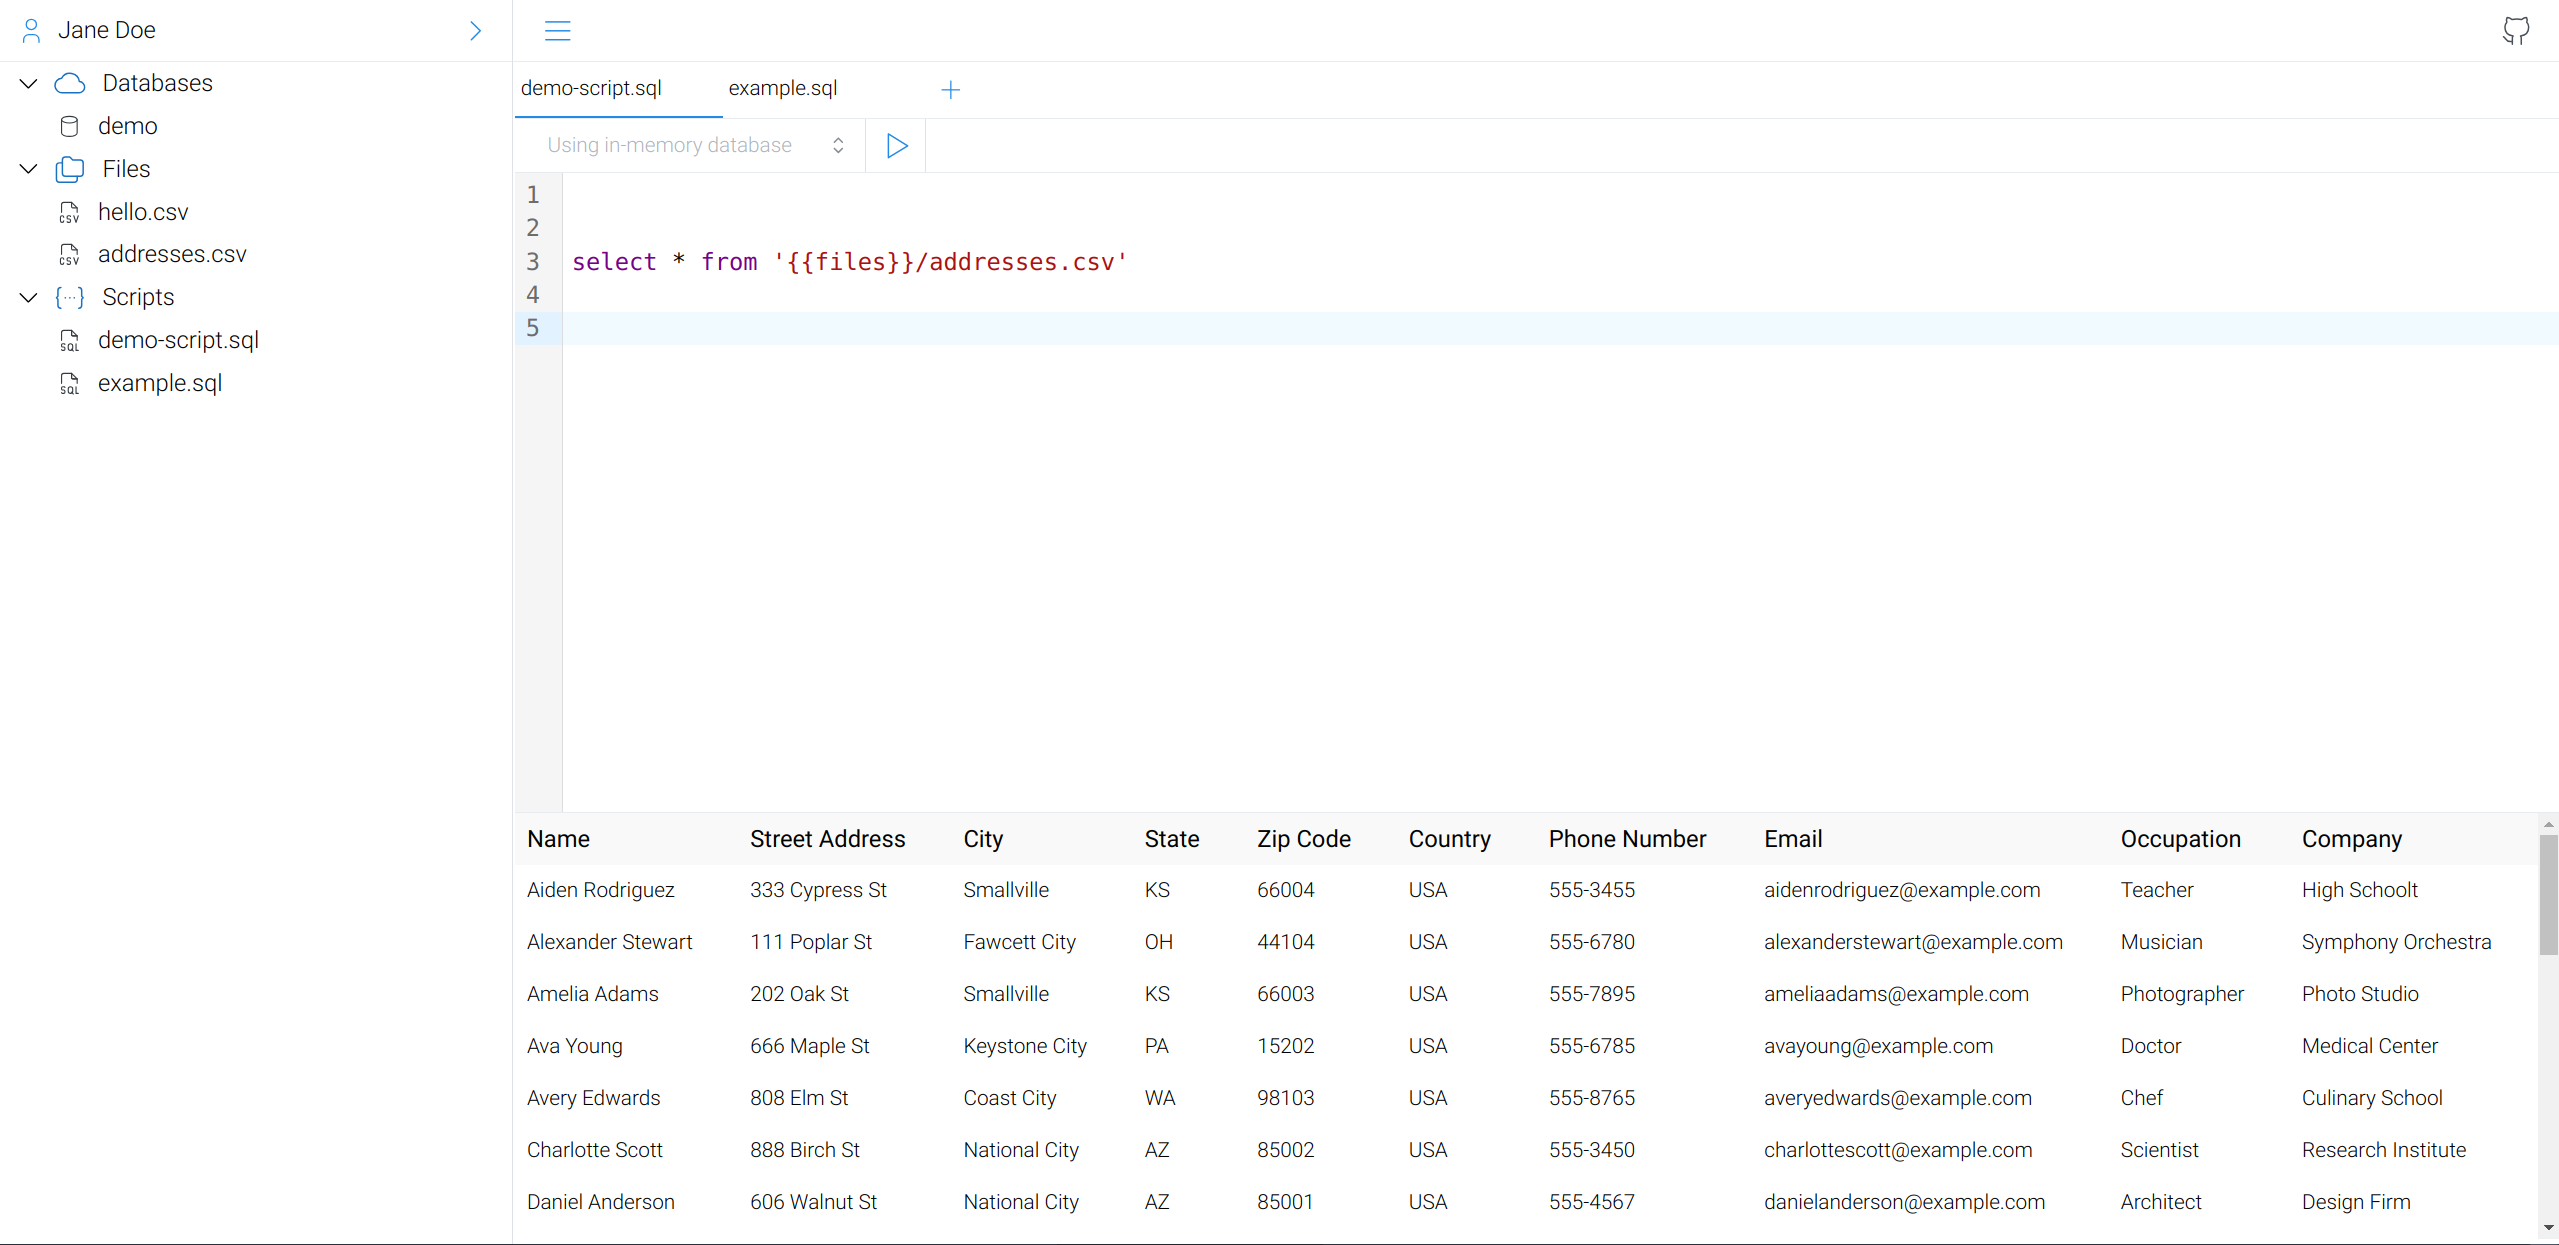
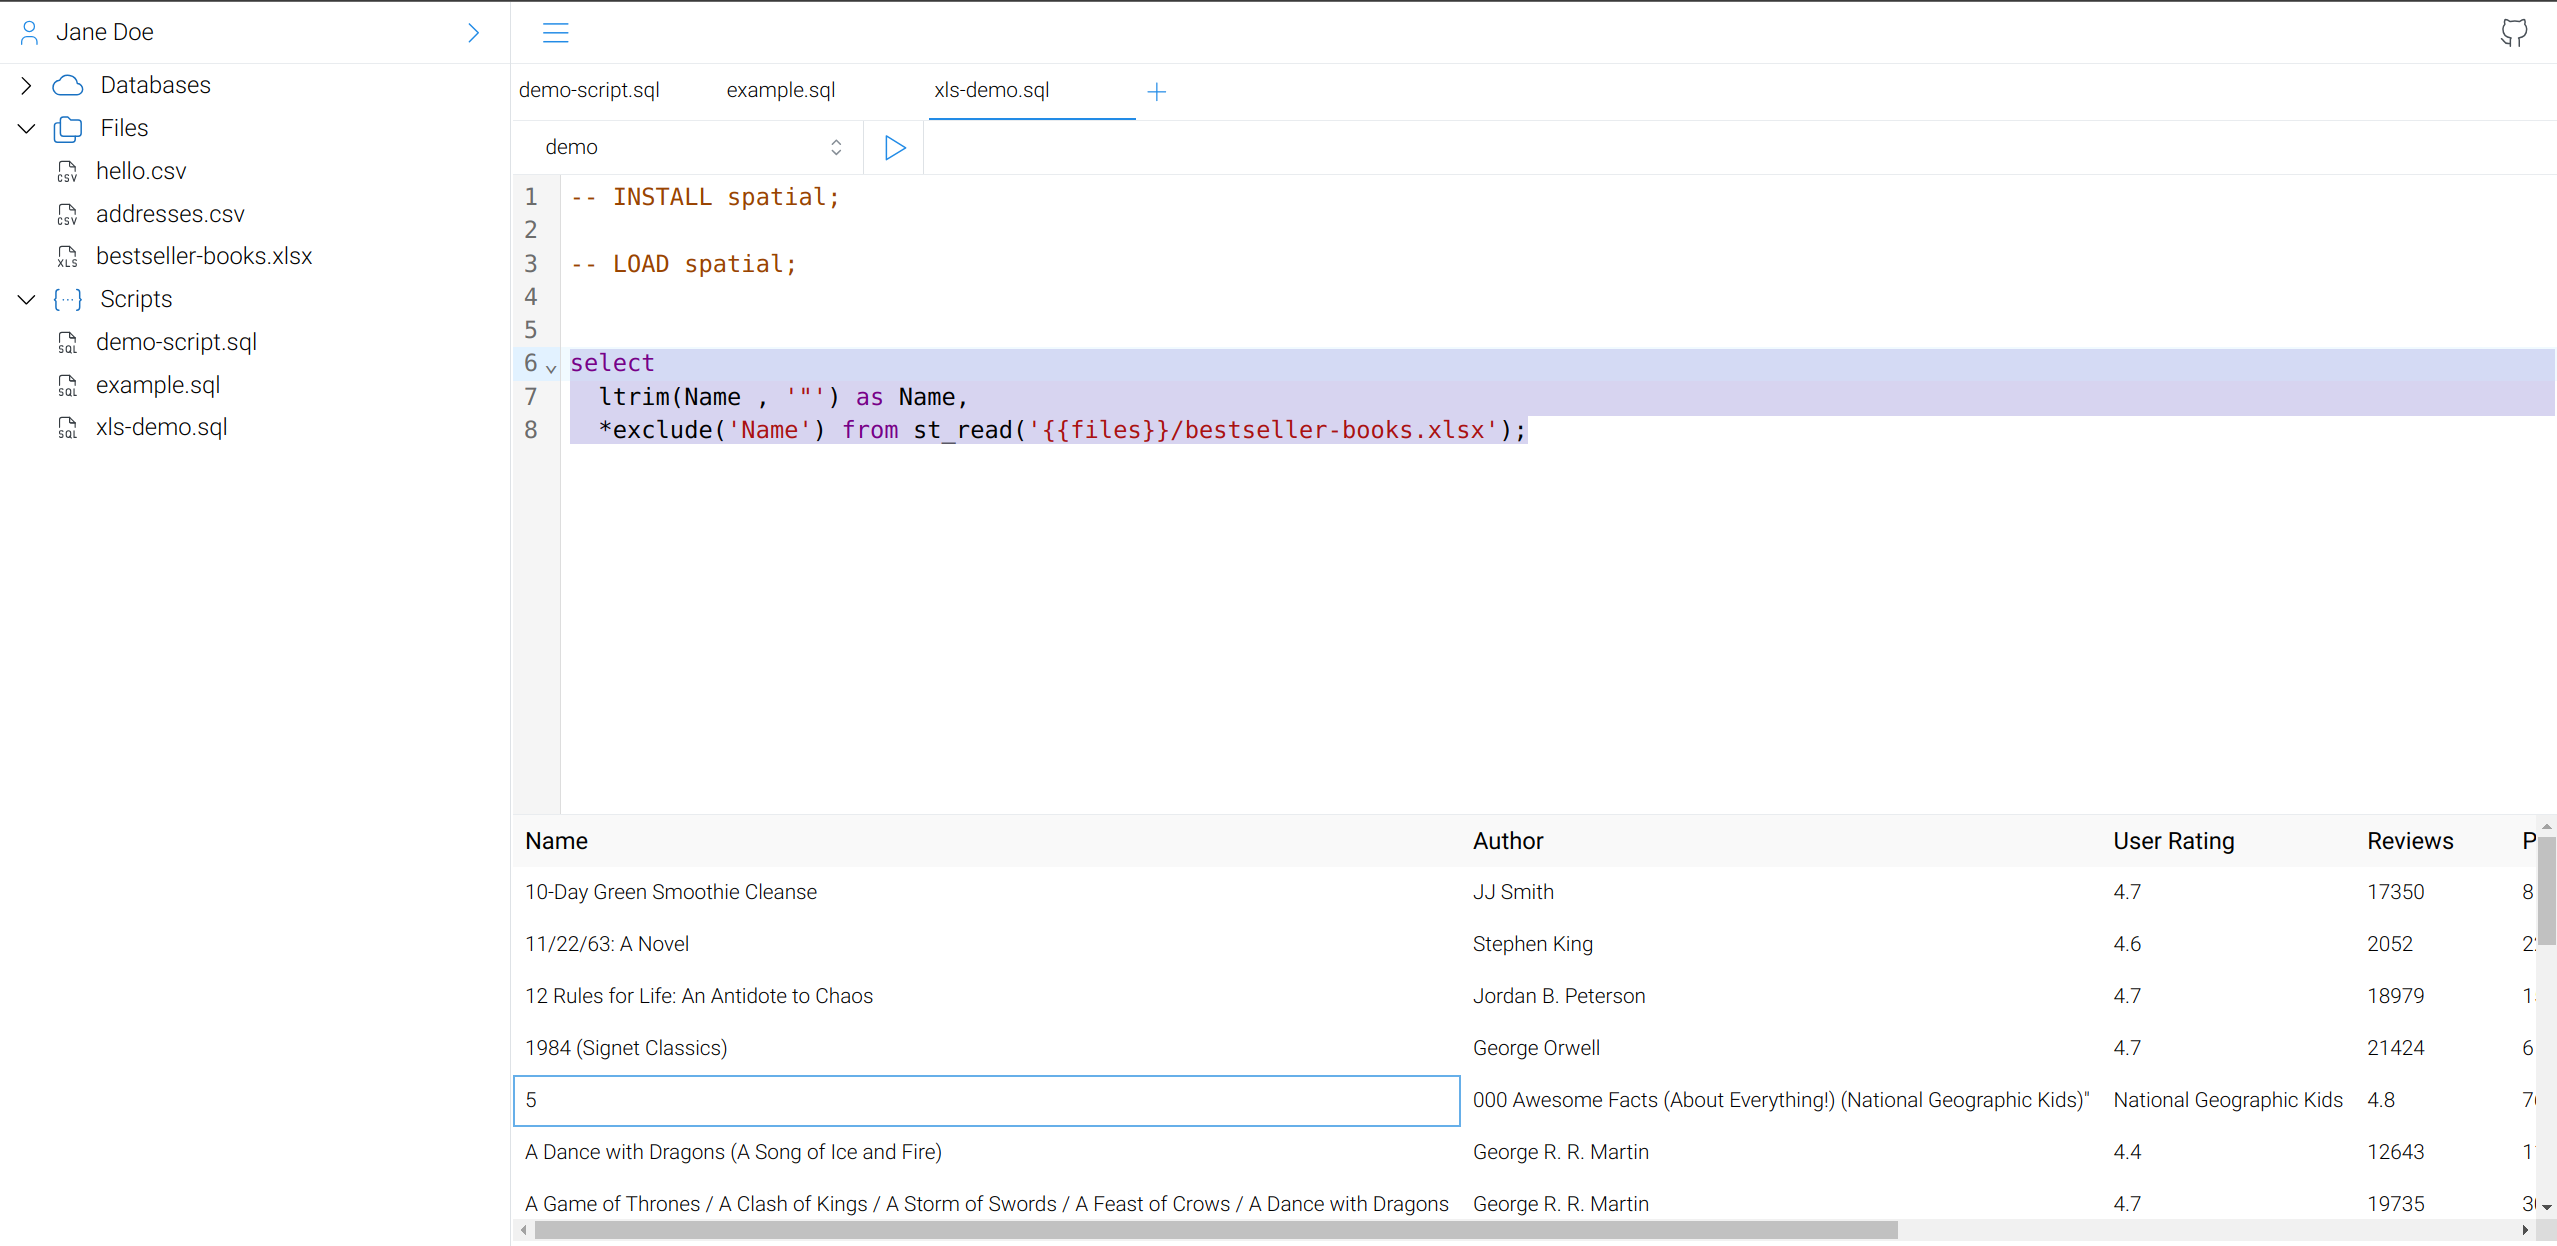
new example

diff --git a/owl/webapp/src/components/Nav/NavExplorer/DataFilesNode.tsx b/owl/webapp/src/components/Nav/NavExplorer/DataFilesNode.tsx
@@ -8,6 +8,7 @@ import { notifications } from "@mantine/notifications";
 import {
   IconFile,
   IconFileTypeCsv,
+  IconFileTypeXls,
   IconFolders,
   IconUpload,
 } from "@tabler/icons-react";
@@ -24,6 +25,14 @@ function toNode(
     if (file.name.endsWith(".csv")) {
       return (
         <IconFileTypeCsv
+          stroke={1}
+          size={18}
+          color="var(--mantine-color-gray-8)"
+        />
+      );
+    } else if (file.name.endsWith(".xlsx") || file.name.endsWith(".xlsx")) {
+      return (
+        <IconFileTypeXls
           stroke={1}
           size={18}
           color="var(--mantine-color-gray-8)"
